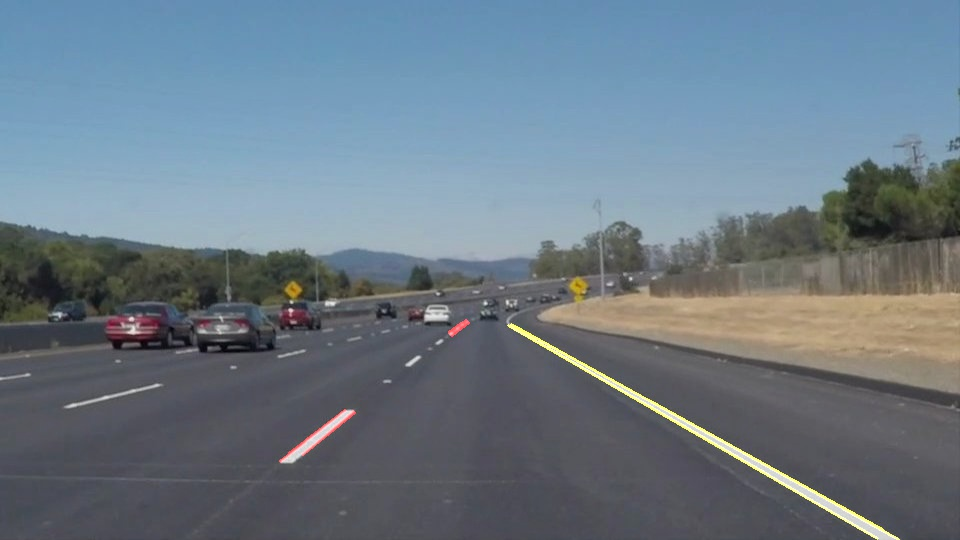
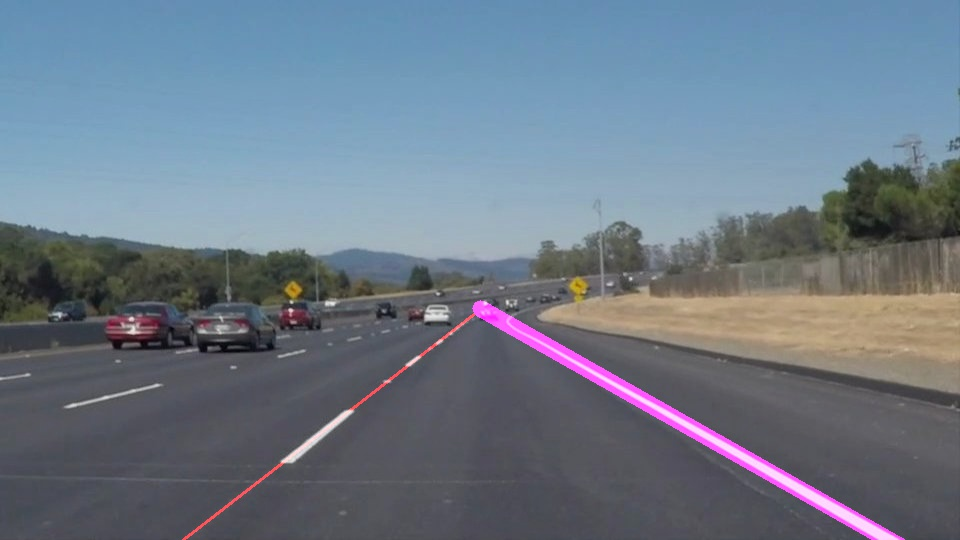
good for solidWhiteCurve

diff --git a/utils.py b/utils.py
@@ -100,8 +100,8 @@ def draw_lines(img, lines, color=[255, 0, 0], thickness=2):
                     rc.append(center)
                     rm.append(slope)
 
-    util_draw_line(img, leftlines, [255, 0, 0])
-    util_draw_line(img, rightlines, [255, 255, 0])
+    # util_draw_line(img, leftlines, [255, 0, 0])
+    # util_draw_line(img, rightlines, [255, 255, 0])
 
     r_slope = np.sum(rm) / len(rm)
     l_slope = np.sum(lm) / len(lm)
@@ -109,8 +109,29 @@ def draw_lines(img, lines, color=[255, 0, 0], thickness=2):
     l_center = np.divide(np.sum(lc, axis=0), len(lc))
     r_center = np.divide(np.sum(rc, axis=0), len(rc))
 
-    print('left: ', l_slope, l_center)
-    print('right: ', r_slope, r_center)
+    leftX, leftY = l_center
+    rightX, rightY = r_center
+
+    lefty1 = - (l_slope*(leftX - 480) - leftY)
+    lefty2 = - (l_slope*(leftX - 150) - leftY)
+
+    int_lefty1 = int(round(lefty1))
+    int_lefty2 = int(round(lefty2))
+
+
+    righty1 = - (r_slope*(rightX - 480) - rightY)
+    righty2 = - (r_slope*(rightX - 900) - rightY)
+
+    int_righty1 = int(round(righty1))
+    int_righty2 = int(round(righty2))
+
+    # arr = np.array([[(540, lefty1), (250, lefty2)]], dtype=np.int32)
+
+    # print((540, lefty1), (250, lefty2))
+    cv2.line(img, (480, int_lefty1), (150, int_lefty2), [255, 0, 255], 15)
+    cv2.line(img, (480, int_righty1), (900, int_righty2), [255, 0, 255], 15)
+
+    # print((480, int_righty1), (900, int_righty2))
 
 
 def hough_lines(img, rho, theta, threshold, min_line_len, max_line_gap):

diff --git a/main.py b/main.py
@@ -24,7 +24,7 @@ result = cv2.merge((b, g, r))
 # cv2.imwrite("output_images/" + file, result)
 cv2.imwrite("output_images/solidWhiteCurve.jpg", result)
 
-    # plt.imshow(result, cmap='gray')
-
-    # plt.colorbar()
-    # plt.show()
+# plt.imshow(result, cmap='gray')
+# #
+# plt.colorbar()
+# plt.show()
